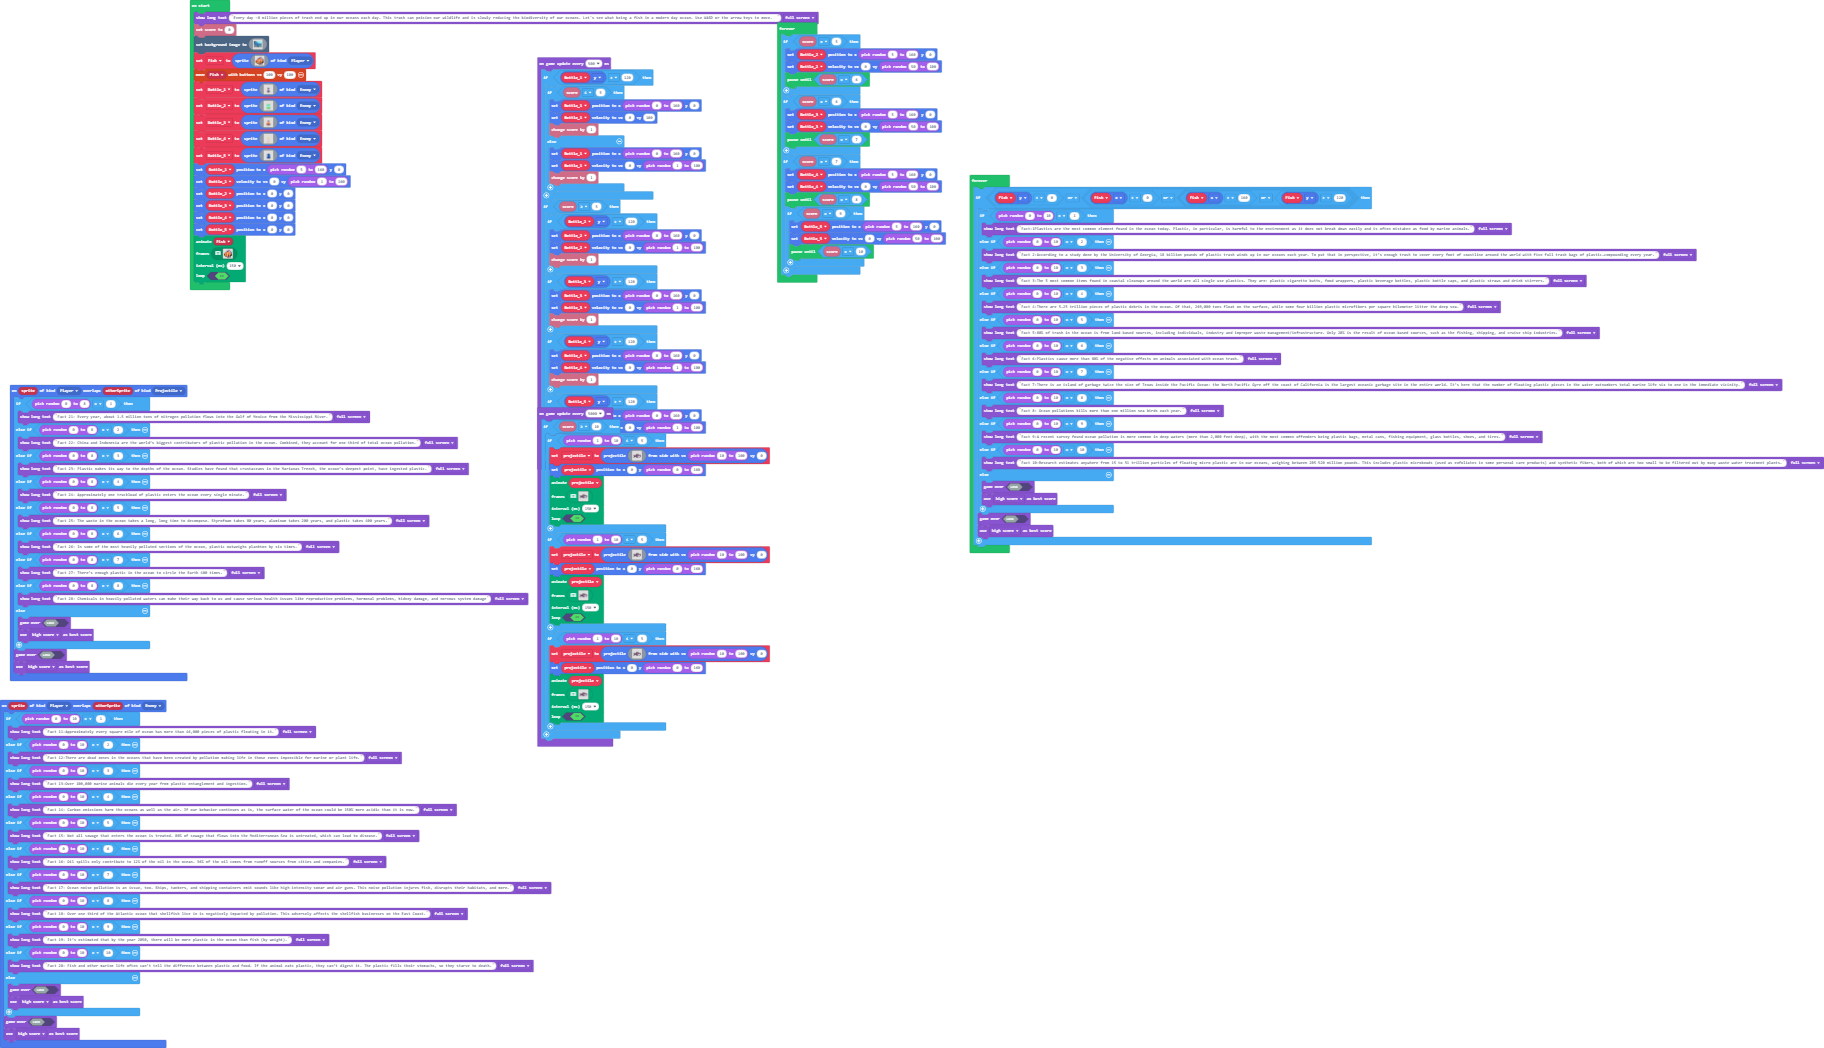
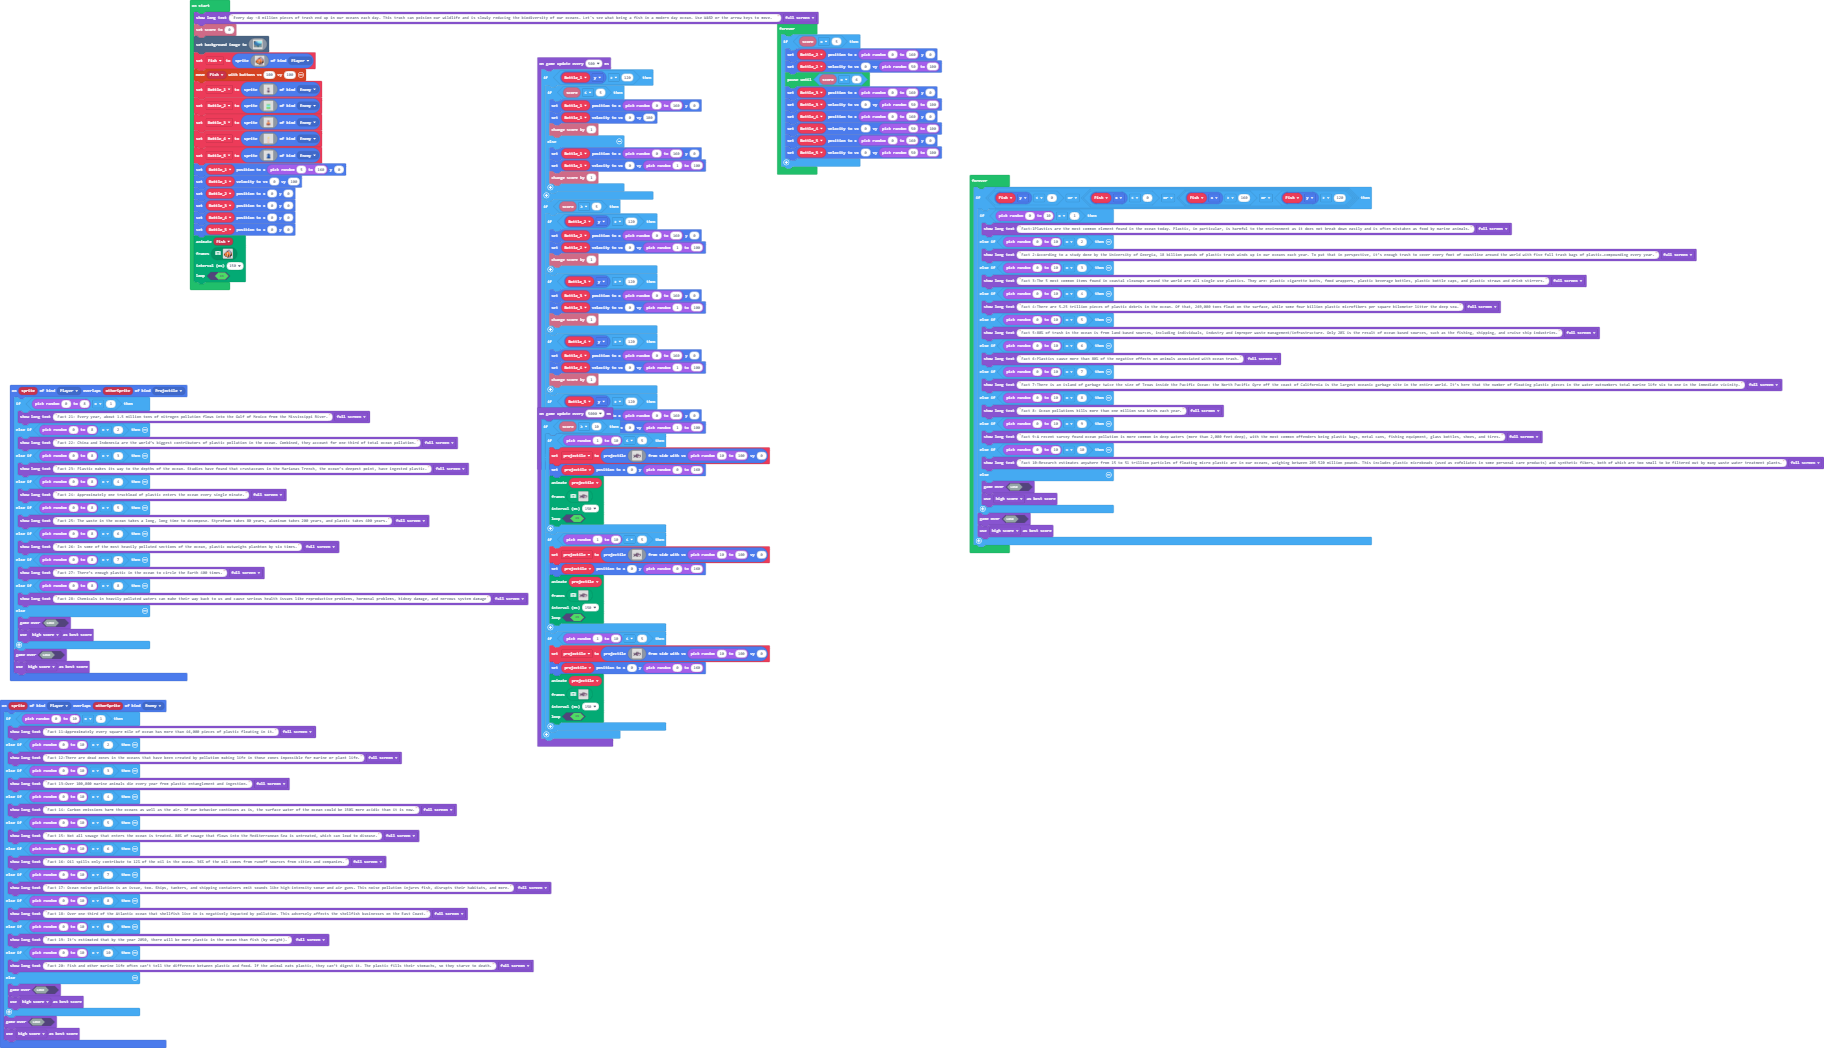
Bug Fixes

Changed region(s): [[0.4062, 0.0611, 0.5312, 0.2748], [0.1562, 0.1527, 0.1875, 0.1832]]

diff --git a/main.ts b/main.ts
@@ -166,7 +166,7 @@ let Bottle_5 = sprites.create(img`
     ....................
     `, SpriteKind.Enemy)
 Bottle_1.setPosition(randint(5, 160), 0)
-Bottle_1.setVelocity(0, randint(1, 100))
+Bottle_1.setVelocity(0, 100)
 Bottle_2.setPosition(0, 0)
 Bottle_3.setPosition(0, 0)
 Bottle_4.setPosition(0, 0)
@@ -536,24 +536,15 @@ game.onUpdateInterval(5000, function () {
 })
 forever(function () {
     if (info.score() == 5) {
-        Bottle_2.setPosition(randint(5, 160), 0)
+        Bottle_2.setPosition(randint(0, 160), 0)
         Bottle_2.setVelocity(0, randint(50, 100))
         pauseUntil(() => info.score() == 6)
-    }
-    if (info.score() == 6) {
-        Bottle_3.setPosition(randint(5, 160), 0)
+        Bottle_3.setPosition(randint(0, 160), 0)
         Bottle_3.setVelocity(0, randint(50, 100))
-        pauseUntil(() => info.score() == 7)
-    }
-    if (info.score() == 7) {
-        Bottle_4.setPosition(randint(5, 160), 0)
+        Bottle_4.setPosition(randint(0, 160), 0)
         Bottle_4.setVelocity(0, randint(50, 100))
-        pauseUntil(() => info.score() == 8)
-        if (info.score() == 9) {
-            Bottle_5.setPosition(randint(5, 160), 0)
-            Bottle_5.setVelocity(0, randint(50, 100))
-            pauseUntil(() => info.score() == 10)
-        }
+        Bottle_5.setPosition(randint(0, 160), 0)
+        Bottle_5.setVelocity(0, randint(50, 100))
     }
 })
 forever(function () {
